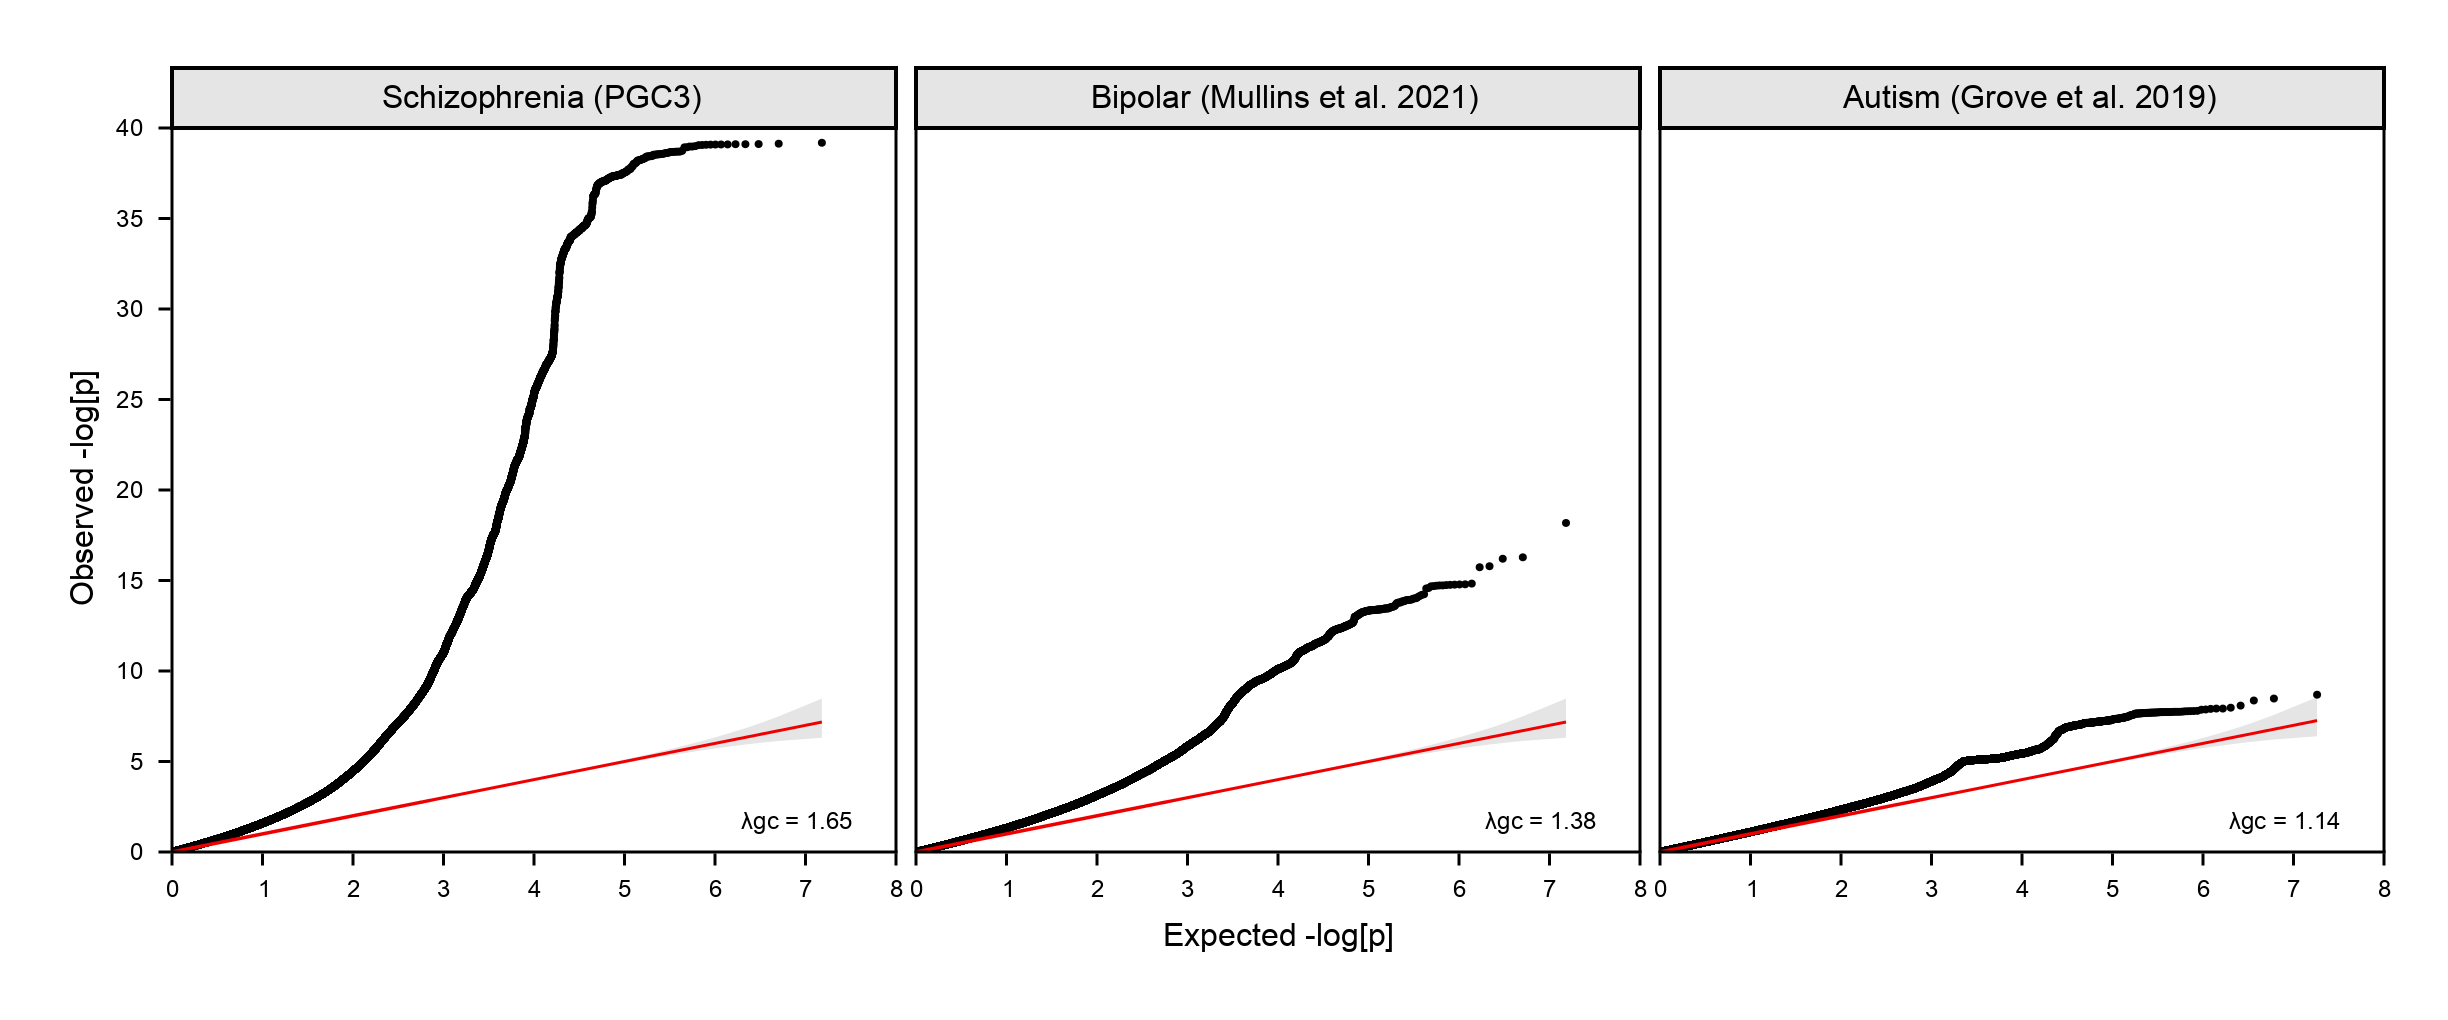
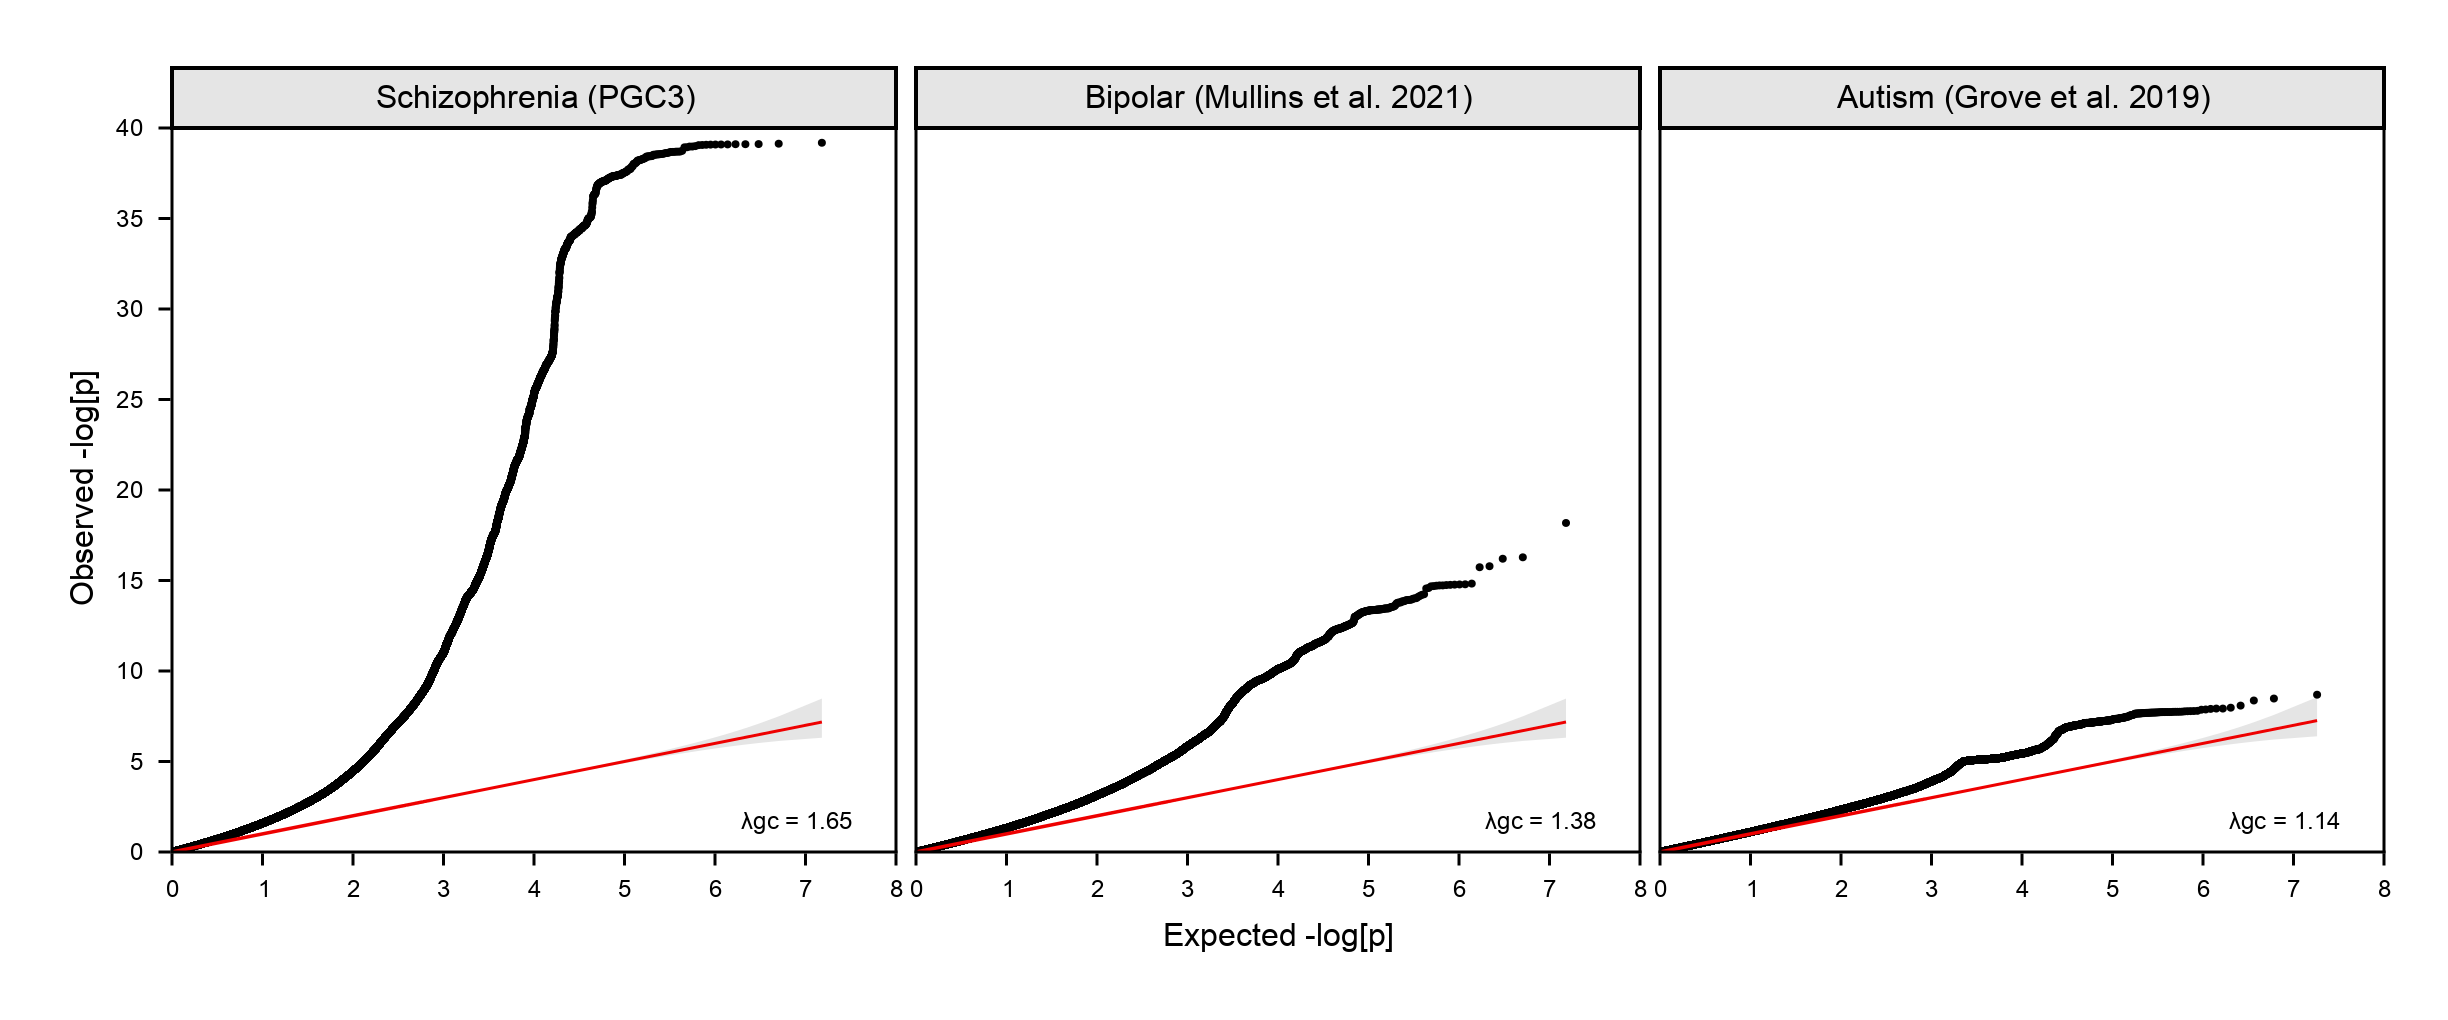
manhattan

Changed region(s): [[0.4346, 0.0608, 0.6209, 0.1216], [0.7451, 0.0608, 0.9003, 0.1216], [0.1552, 0.0608, 0.2794, 0.1216]]

diff --git a/README.md b/README.md
@@ -54,7 +54,7 @@ let
     save("figs/KMT2E-gene.png", f, px_per_unit = 4)
 end
 ```
-<p align="center"><img width="50%" style="border-radius: 5px;" src="figs/KMT2E-gene.png"></p>
+<p align="center"><img width="70%" style="border-radius: 5px;" src="figs/KMT2E-gene.png"></p>
 
 ```julia
 # Visualize KMT2E isoforms
@@ -69,7 +69,7 @@ let
     save("figs/KMT2E-isoform.png", f, px_per_unit = 4)
 end
 ```
-<p align="center"><img width="50%" style="border-radius: 5px;" src="figs/KMT2E-isoform.png"></p>
+<p align="center"><img width="70%" style="border-radius: 5px;" src="figs/KMT2E-isoform.png"></p>
 
 ```julia
 kgp = let
@@ -122,7 +122,7 @@ LD = LD.^2
     save("figs/KMT2E-LD.png", f, px_per_unit = 4)
 end
 ```
-<p align="center"><img width="60%" style="border-radius: 5px;" src="figs/KMT2E-LD.png"></p>
+<p align="center"><img width="80%" style="border-radius: 5px;" src="figs/KMT2E-LD.png"></p>
 
 ```julia
 # Download GWAS summary statistics for psychiatric disorders
@@ -176,10 +176,51 @@ end
 <p align="center"><img width="70%" style="border-radius: 5px;" src="figs/KMT2E-locuszoom.png"></p>
 
 ```julia
+# Visualize Manhattan plot
+@time let
+    f = Figure(resolution = (408, 275))
+    axs = [Axis(f[i, 1]) for i in 1:length(titles)]
+    coord, ymaxs, xmax, ticks = GM.coordinategwas(gwas) # set up coordinates
+    for i in eachindex(titles)
+        GM.plotgwas!(axs[i], coord, i, ymaxs[i], xmax, ticks; xlabel = "", ystep = 10)
+        hidespines!(axs[i], :t, :r)
+        Label(f[i, 1, Top()], text = "$(titles[i])", textsize = 8)
+        rowsize!(f.layout, i, 50)
+        i == length(titles) ? axs[i].xlabel = "Chromosome" : nothing
+    end
+    rowgap!(f.layout, 10)
+    save("figs/manhattan.png", f, px_per_unit = 4)
+end
+```
+<p align="center"><img width="75%" style="border-radius: 5px;" src="figs/manhattan.png"></p>
+
+```julia
+# Visualize Miami/Hudson plot
+@time let
+    f = Figure(resolution = (408, 180))
+    axs = [Axis(f[i, 1]) for i in 1:2]
+    coord, ymaxs, xmax, ticks = GM.coordinategwas(gwas[1:2])
+    for i in 1:2
+        GM.plotgwas!(axs[i], coord, i, ymaxs[i], xmax, ticks; xlabel = "", ystep = 10)
+        rowsize!(f.layout, i, 50)
+    end
+    hidexdecorations!(axs[2])
+    hidespines!(axs[1], :t, :r)
+    hidespines!(axs[2], :b, :r)
+    ylims!(axs[2], ymaxs[2], 0)
+    Label(f[1, 1, Top()], text = "$(titles[1])", textsize = 8)
+    Label(f[2, 1, Bottom()], text = "$(titles[2])", textsize = 8)
+    rowgap!(f.layout, 1)
+    save("figs/miami.png", f, px_per_unit = 4)
+end
+```
+<p align="center"><img width="75%" style="border-radius: 5px;" src="figs/miami.png"></p>
+
+```julia
 # Visualize QQ plot of P values
-let
+@time let
     f = Figure(resolution = (612, 255))
-    axs = [Axis(f[2, i]) for i in 1:3]
+    axs = [Axis(f[2, i]) for i in 1:length(titles)]
     for i in eachindex(titles)
         GM.plotqq!(axs[i], gwas[i]; xlabel = "", ylabel = "", ystep = 5)
         ylims!(axs[i], 0, 40)
@@ -187,7 +228,7 @@ let
     end
     for (i, title) in enumerate(titles)
         Box(f[1, i], color = :gray90)
-        Label(f[1, i], title, tellwidth = false, textsize = 8, padding = (3, 0, 3, 3))
+        Label(f[1, i], title, tellwidth = false, textsize = 8, padding = (0, 0, 3, 3))
     end
     Label(f[3, 1:length(titles)], text = "Expected -log[p]", textsize = 8)
     Label(f[2, 0], text = "Observed -log[p]", textsize = 8, rotation = pi / 2, tellheight = false)
@@ -198,4 +239,4 @@ let
     save("figs/QQ.png", f, px_per_unit = 4)
 end
 ```
-<p align="center"><img width="65%" style="border-radius: 5px;" src="figs/QQ.png"></p>
+<p align="center"><img width="80%" style="border-radius: 5px;" src="figs/QQ.png"></p>
